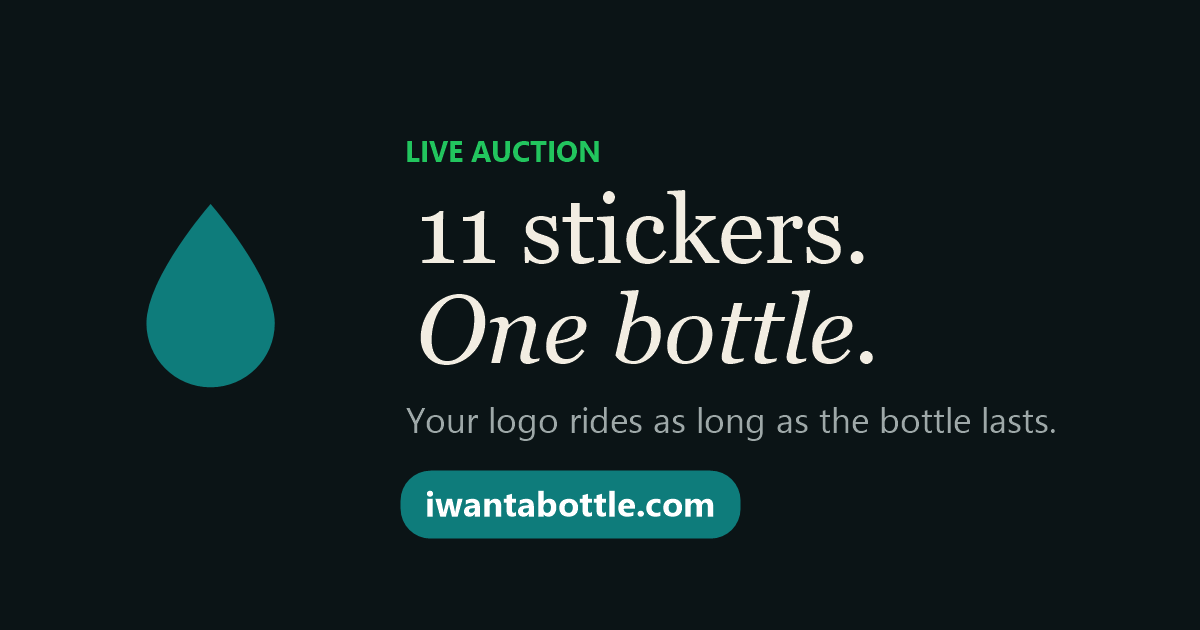
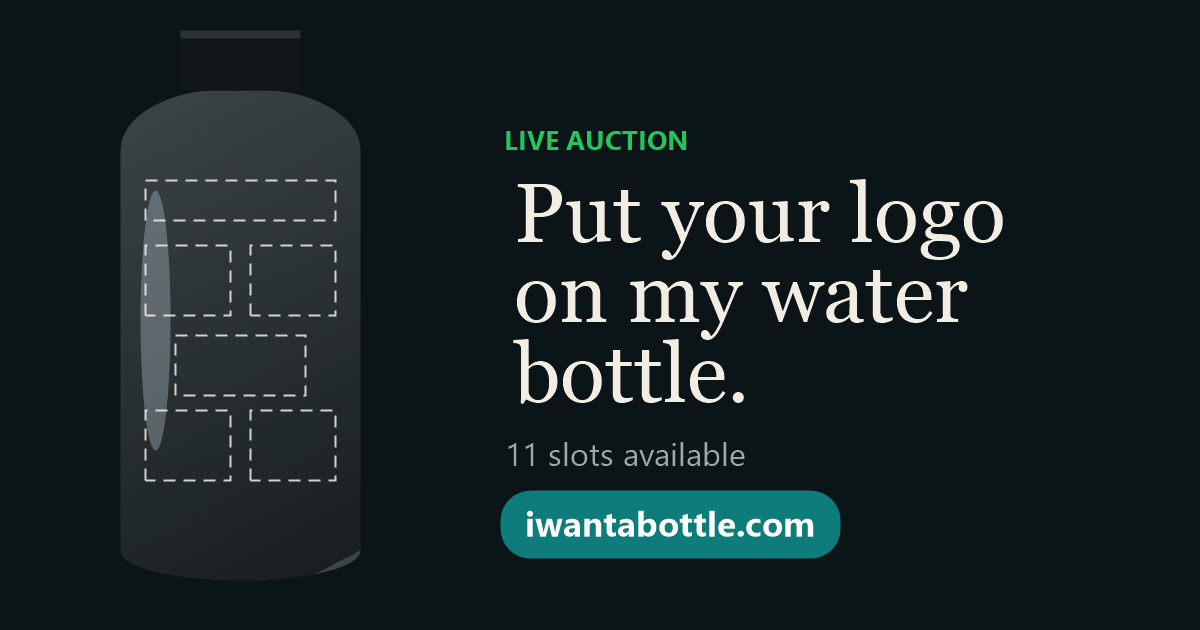
Redesigned OG card + rewrote mobile occupied-tap as click-toggle
OG share card
- Replaced the drop-icon-with-text layout with a proper bottle
  silhouette (silver body + dark cap) sporting six dashed sticker
  slots down the front. Reads as "here are the spots you can buy".
- Copy per owner: "Put your logo on my water bottle." + "11 slots
  available" + iwantabottle.com pill. Still 1200x630 for X card.
- Old teal-drop card kept as bmb-logo.png / favicon; only og-card.png
  updated.

Mobile occupied-tap — rewrote as click-based toggle
- The pointerup + synthetic-click suppression flag pattern was too
  fragile; the click was still firing before the suppress flag was
  read on some devices. Replaced with a single click handler that
  branches on _isTouchDevice() (uses matchMedia("(hover: none)"))
  and whether the pill is currently showing this sticker:
  - Touch + occupied + pill hidden or different spot -> show pill
  - Everything else (desktop, empty spot, second-tap-same-spot) ->
    openBidModal directly
- Removed the pointerup touch handler entirely (dead code now).
- Same end behavior for desktop hover flow.

diff --git a/app.js b/app.js
@@ -654,36 +654,26 @@ function raycastSticker(clientX, clientY) {
   return null;
 }
 
-// When a touch pointerup handles an occupied-sticker tap by showing the pill,
-// the browser still fires a synthetic click ~50ms later. Set this flag from
-// the touch handler so the click handler below skips its would-be openBidModal.
-let _suppressNextStickerClick = false;
+// Sticker click handler. On touch devices, the FIRST tap on an occupied
+// sticker shows the info pill (brand + website + X + Outbid). The SECOND
+// tap opens the bid modal — either by tapping the Outbid button on the
+// pill, or by tapping the same sticker again. Empty stickers go straight
+// to the bid modal on any input.
+const _isTouchDevice = () =>
+  (typeof window !== "undefined") &&
+  (window.matchMedia && window.matchMedia("(hover: none)").matches);
 
 canvasEl.addEventListener("click", (e) => {
   if (didDrag) return;
-  if (_suppressNextStickerClick) { _suppressNextStickerClick = false; return; }
-  const hit = raycastSticker(e.clientX, e.clientY);
-  if (hit) openBidModal(hit.userData.spotId);
-});
-
-// Mobile: a tap on a sticker should open the bid modal DIRECTLY (there is
-// no hover, so the pill's click-to-bid flow is unreachable without this).
-canvasEl.addEventListener("pointerup", (e) => {
-  if (e.pointerType !== "touch") return;
-  if (didDrag) return;
   const hit = raycastSticker(e.clientX, e.clientY);
   if (!hit) return;
-  e.preventDefault();
   const spotId = hit.userData.spotId;
   const spot   = state.spots[spotId];
-  // For OCCUPIED stickers, first tap shows the info pill (brand + website
-  // + X handle + Outbid button) — same info a desktop hover shows. User
-  // taps Outbid to open the bid modal. For OPEN stickers, jump straight
-  // to the bid modal (nothing to preview).
-  if (spot) {
-    // Suppress the synthetic click that follows this touch so the older
-    // click handler doesn't also open the bid modal on top of our pill.
-    _suppressNextStickerClick = true;
+  const touch  = _isTouchDevice();
+
+  // Touch + occupied + pill not already showing this sticker → show pill,
+  // don't open modal yet.
+  if (touch && spot && (pillEl.hidden || hoveredSpotId !== spotId)) {
     hoveredSpotId = spotId;
     const price = spot.amount;
     pillVerbEl.textContent  = "Outbid";
@@ -691,10 +681,15 @@ canvasEl.addEventListener("pointerup", (e) => {
     fillPillInfo(spot);
     positionPillAt(hit);
     pillEl.hidden = false;
-  } else {
-    openBidModal(spotId);
+    return;
   }
+  // Everything else (desktop, empty sticker, second-tap on same sticker) →
+  // open the bid modal directly.
+  openBidModal(spotId);
 });
+
+// (Touch tap → pill or bid modal is handled by the click handler above,
+// which branches on _isTouchDevice() + spot state.)
 // Dismiss the pill when the user taps outside the canvas or the pill.
 document.addEventListener("pointerdown", (e) => {
   if (!pillEl || pillEl.hidden) return;
